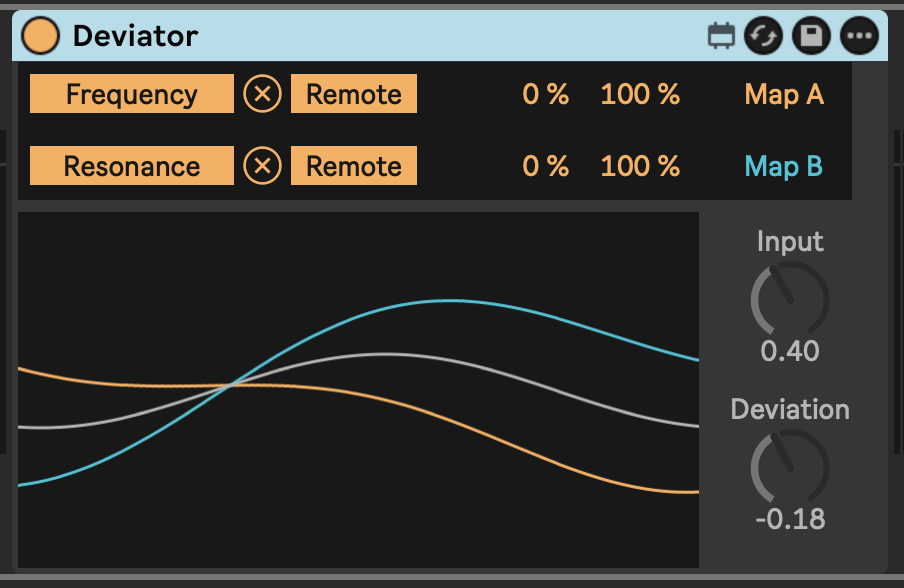
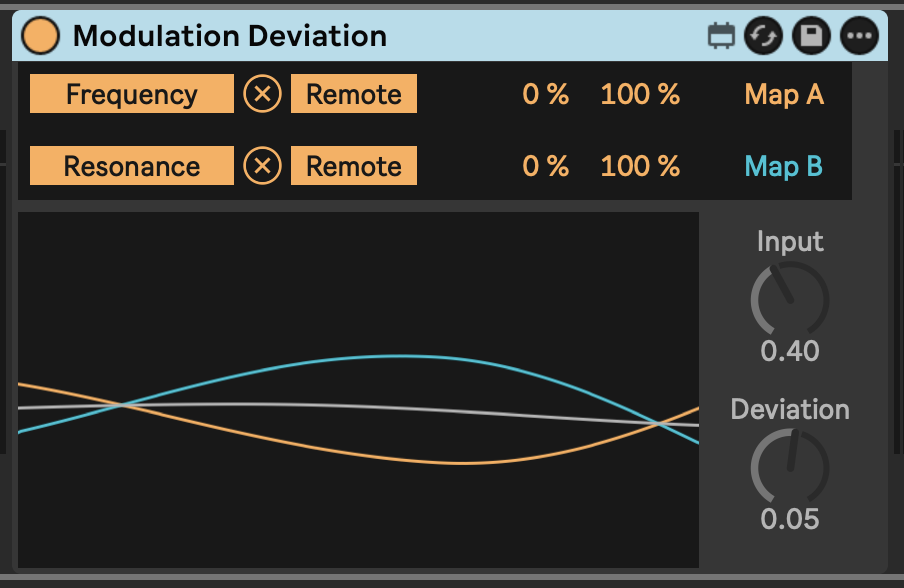
gif

diff --git a/README.md b/README.md
@@ -4,7 +4,7 @@ This device exists to make it easy to have two modulation targets deviate opposi
 
 You might want to use it to stack up instruments or filters in a rack and run them in parallel, controlling different aspects of timbre of each device/instrument in opposite ways.
 
-![How it Looks](images/device.png)
+![How it Looks](images/device.gif)
 
 ## Installation
 
